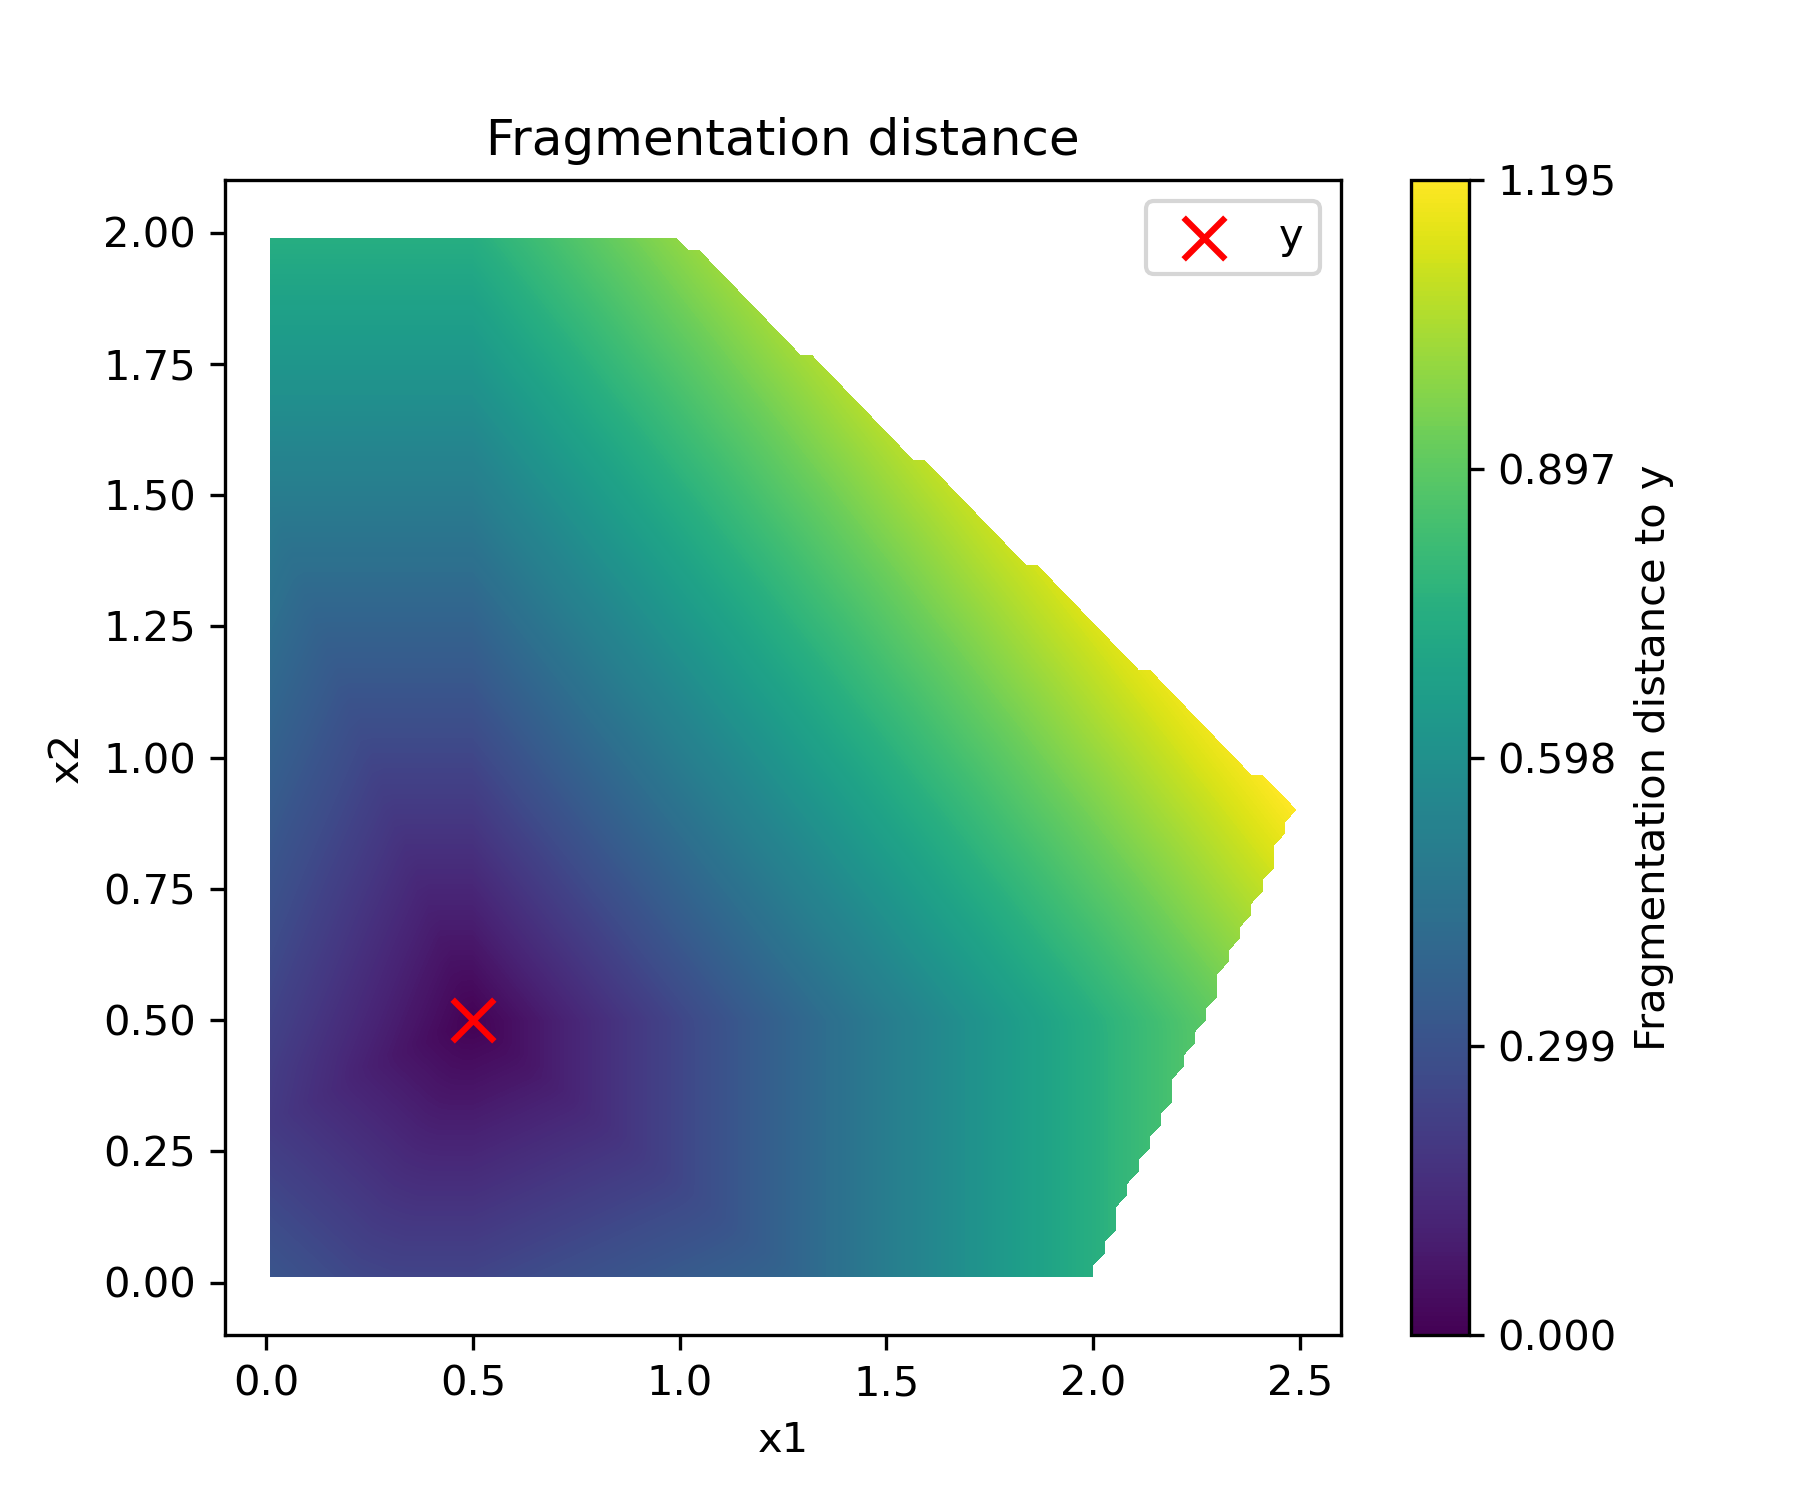
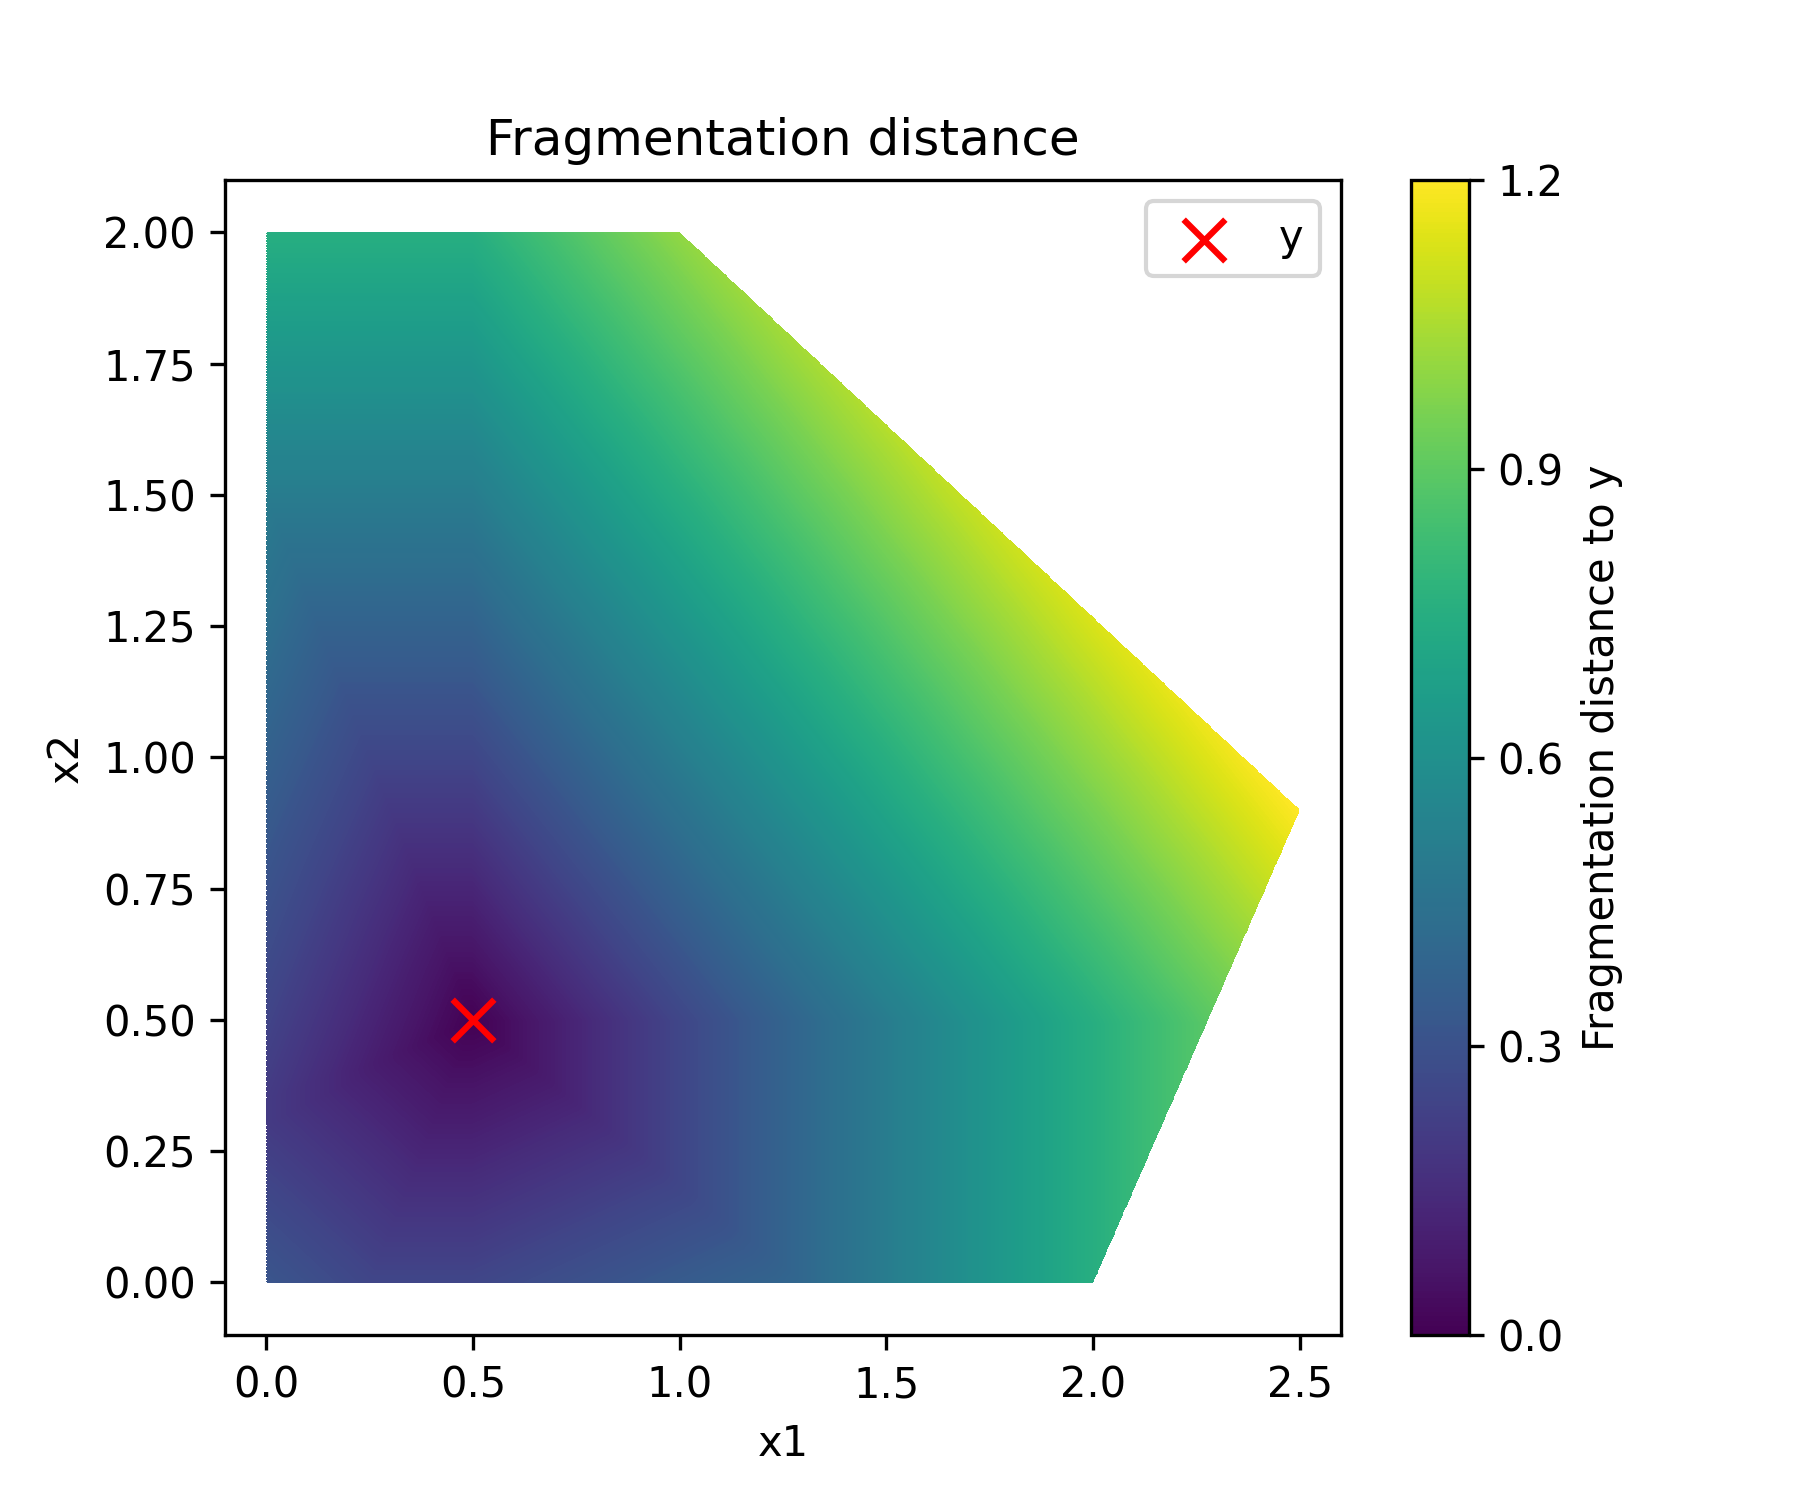
improved plot aesthetics

diff --git a/fragmentation_4_vertices_almost_triangle.py b/fragmentation_4_vertices_almost_triangle.py
@@ -1,0 +1,66 @@
+import numpy as np
+import sys
+from pathlib import Path
+sys.path.append((str(Path.cwd() / "src")))
+from polytope import Polytope
+from plotting_utils import save_plot_and_data_simple, plot_delaunay, plot_smooth
+
+# set up the polytope, columns are vertices
+vertices = np.array([[0, 1, 0.5, 0.75],
+                    [0, 0, 10, 5.5]])
+vertices = vertices.astype(np.float32)
+poly = Polytope(vertices)
+
+num_steps = 40
+num_steps_line = 75
+num_cores = 10
+epsilon = 1e-5
+tol = 1e-7
+
+
+y = np.array([0.0, 0.0], dtype=np.float32)
+grid, dists = poly.fragmentation_grid(y, num_steps=num_steps, num_steps_line=num_steps_line, epsilon=epsilon, tol=tol, parallel=True, num_cores=num_cores)
+fig = plot_smooth(grid, dists, y, title="Fragmentation distance", xlabel="x1", ylabel="x2")
+save_plot_and_data_simple(fig, vertices, y, name="fragmentation_4_vertices_almost_triangle_vertex_1")
+
+
+y = np.array([1.0, 0.0], dtype=np.float32)
+grid, dists = poly.fragmentation_grid(y, num_steps=num_steps, num_steps_line=num_steps_line, epsilon=epsilon, tol=tol, parallel=True, num_cores=num_cores)
+fig = plot_smooth(grid, dists, y, title="Fragmentation distance", xlabel="x1", ylabel="x2")
+save_plot_and_data_simple(fig, vertices, y, name="fragmentation_4_vertices_almost_triangle_vertex_2")
+
+y = np.array([0.25, 0.0], dtype=np.float32)
+grid, dists = poly.fragmentation_grid(y, num_steps=num_steps, num_steps_line=num_steps_line, epsilon=epsilon, tol=tol, parallel=True, num_cores=num_cores)
+fig = plot_smooth(grid, dists, y, title="Fragmentation distance", xlabel="x1", ylabel="x2")
+save_plot_and_data_simple(fig, vertices, y, name="fragmentation_4_vertices_almost_triangle_boundary_1")
+
+
+y = np.array([0.5, 0.0], dtype=np.float32)
+grid, dists = poly.fragmentation_grid(y, num_steps=num_steps, num_steps_line=num_steps_line, epsilon=epsilon, tol=tol, parallel=True, num_cores=num_cores)
+fig = plot_smooth(grid, dists, y, title="Fragmentation distance", xlabel="x1", ylabel="x2")
+save_plot_and_data_simple(fig, vertices, y, name="fragmentation_4_vertices_almost_triangle_boundary_2")
+
+y = np.array([0.75, 0.0], dtype=np.float32)
+grid, dists = poly.fragmentation_grid(y, num_steps=num_steps, num_steps_line=num_steps_line, epsilon=epsilon, tol=tol, parallel=True, num_cores=num_cores)
+fig = plot_smooth(grid, dists, y, title="Fragmentation distance", xlabel="x1", ylabel="x2")
+save_plot_and_data_simple(fig, vertices, y, name="fragmentation_4_vertices_almost_triangle_boundary_3")
+
+y = np.array([0.125, 2.5], dtype=np.float32)
+grid, dists = poly.fragmentation_grid(y, num_steps=num_steps, num_steps_line=num_steps_line, epsilon=epsilon, tol=tol, parallel=True, num_cores=num_cores)
+fig = plot_smooth(grid, dists, y, title="Fragmentation distance", xlabel="x1", ylabel="x2")
+save_plot_and_data_simple(fig, vertices, y, name="fragmentation_4_vertices_almost_triangle_boundary_4")
+
+y = np.array([0.25, 5.0], dtype=np.float32)
+grid, dists = poly.fragmentation_grid(y, num_steps=num_steps, num_steps_line=num_steps_line, epsilon=epsilon, tol=tol, parallel=True, num_cores=num_cores)
+fig = plot_smooth(grid, dists, y, title="Fragmentation distance", xlabel="x1", ylabel="x2")
+save_plot_and_data_simple(fig, vertices, y, name="fragmentation_4_vertices_almost_triangle_boundary_5")
+
+y = np.array([0.25, 3], dtype=np.float32)
+grid, dists = poly.fragmentation_grid(y, num_steps=num_steps, num_steps_line=num_steps_line, epsilon=epsilon, tol=tol, parallel=True, num_cores=num_cores)
+fig = plot_smooth(grid, dists, y, title="Fragmentation distance", xlabel="x1", ylabel="x2")
+save_plot_and_data_simple(fig, vertices, y, name="fragmentation_4_vertices_almost_triangle_relint_1")
+
+y = np.array([0.75, 8], dtype=np.float32)
+grid, dists = poly.fragmentation_grid(y, num_steps=num_steps, num_steps_line=num_steps_line, epsilon=epsilon, tol=tol, parallel=True, num_cores=num_cores)
+fig = plot_smooth(grid, dists, y, title="Fragmentation distance", xlabel="x1", ylabel="x2")
+save_plot_and_data_simple(fig, vertices, y, name="fragmentation_4_vertices_almost_triangle_relint_2")

diff --git a/fragmentation_parallelogram.py b/fragmentation_parallelogram.py
@@ -1,0 +1,66 @@
+import numpy as np
+import sys
+from pathlib import Path
+sys.path.append((str(Path.cwd() / "src")))
+from polytope import Polytope
+from plotting_utils import save_plot_and_data_simple, plot_delaunay, plot_smooth
+
+# set up the polytope, columns are vertices
+vertices = np.array([[0, 1, 0.5, 1.5],
+                    [0, 0, 10, 10]])
+vertices = vertices.astype(np.float32)
+poly = Polytope(vertices)
+
+num_steps = 40
+num_steps_line = 75
+num_cores = 10
+epsilon = 1e-5
+tol = 1e-7
+
+
+y = np.array([0.0, 0.0], dtype=np.float32)
+grid, dists = poly.fragmentation_grid(y, num_steps=num_steps, num_steps_line=num_steps_line, epsilon=epsilon, tol=tol, parallel=True, num_cores=num_cores)
+fig = plot_smooth(grid, dists, y, title="Fragmentation distance", xlabel="x1", ylabel="x2")
+save_plot_and_data_simple(fig, vertices, y, name="fragmentation_parallelogram_vertex_1")
+
+
+y = np.array([1.0, 0.0], dtype=np.float32)
+grid, dists = poly.fragmentation_grid(y, num_steps=num_steps, num_steps_line=num_steps_line, epsilon=epsilon, tol=tol, parallel=True, num_cores=num_cores)
+fig = plot_smooth(grid, dists, y, title="Fragmentation distance", xlabel="x1", ylabel="x2")
+save_plot_and_data_simple(fig, vertices, y, name="fragmentation_parallelogram_vertex_2")
+
+y = np.array([0.25, 0.0], dtype=np.float32)
+grid, dists = poly.fragmentation_grid(y, num_steps=num_steps, num_steps_line=num_steps_line, epsilon=epsilon, tol=tol, parallel=True, num_cores=num_cores)
+fig = plot_smooth(grid, dists, y, title="Fragmentation distance", xlabel="x1", ylabel="x2")
+save_plot_and_data_simple(fig, vertices, y, name="fragmentation_parallelogram_boundary_1")
+
+
+y = np.array([0.5, 0.0], dtype=np.float32)
+grid, dists = poly.fragmentation_grid(y, num_steps=num_steps, num_steps_line=num_steps_line, epsilon=epsilon, tol=tol, parallel=True, num_cores=num_cores)
+fig = plot_smooth(grid, dists, y, title="Fragmentation distance", xlabel="x1", ylabel="x2")
+save_plot_and_data_simple(fig, vertices, y, name="fragmentation_parallelogram_boundary_2")
+
+y = np.array([0.75, 0.0], dtype=np.float32)
+grid, dists = poly.fragmentation_grid(y, num_steps=num_steps, num_steps_line=num_steps_line, epsilon=epsilon, tol=tol, parallel=True, num_cores=num_cores)
+fig = plot_smooth(grid, dists, y, title="Fragmentation distance", xlabel="x1", ylabel="x2")
+save_plot_and_data_simple(fig, vertices, y, name="fragmentation_parallelogram_boundary_3")
+
+y = np.array([0.125, 2.5], dtype=np.float32)
+grid, dists = poly.fragmentation_grid(y, num_steps=num_steps, num_steps_line=num_steps_line, epsilon=epsilon, tol=tol, parallel=True, num_cores=num_cores)
+fig = plot_smooth(grid, dists, y, title="Fragmentation distance", xlabel="x1", ylabel="x2")
+save_plot_and_data_simple(fig, vertices, y, name="fragmentation_parallelogram_boundary_4")
+
+y = np.array([0.25, 5.0], dtype=np.float32)
+grid, dists = poly.fragmentation_grid(y, num_steps=num_steps, num_steps_line=num_steps_line, epsilon=epsilon, tol=tol, parallel=True, num_cores=num_cores)
+fig = plot_smooth(grid, dists, y, title="Fragmentation distance", xlabel="x1", ylabel="x2")
+save_plot_and_data_simple(fig, vertices, y, name="fragmentation_parallelogram_boundary_5")
+
+y = np.array([0.25, 3], dtype=np.float32)
+grid, dists = poly.fragmentation_grid(y, num_steps=num_steps, num_steps_line=num_steps_line, epsilon=epsilon, tol=tol, parallel=True, num_cores=num_cores)
+fig = plot_smooth(grid, dists, y, title="Fragmentation distance", xlabel="x1", ylabel="x2")
+save_plot_and_data_simple(fig, vertices, y, name="fragmentation_parallelogram_relint_1")
+
+y = np.array([0.75, 8], dtype=np.float32)
+grid, dists = poly.fragmentation_grid(y, num_steps=num_steps, num_steps_line=num_steps_line, epsilon=epsilon, tol=tol, parallel=True, num_cores=num_cores)
+fig = plot_smooth(grid, dists, y, title="Fragmentation distance", xlabel="x1", ylabel="x2")
+save_plot_and_data_simple(fig, vertices, y, name="fragmentation_parallelogram_relint_2")

diff --git a/fragmentation_5_vertices.py b/fragmentation_5_vertices.py
@@ -11,33 +11,36 @@ vertices = np.array([[0, 2, 1, 0, 2.5],
 vertices = vertices.astype(np.float32)
 poly = Polytope(vertices)
 
-num_steps = 20
-num_steps_line = 50
+num_steps = 40
+num_steps_line = 75
+num_cores = 10
+epsilon = 1e-5
+tol = 1e-7
 
 
 y = np.array([0.0, 0.0], dtype=np.float32)
-grid, dists = poly.fragmentation_grid(y, num_steps=num_steps, num_steps_line=num_steps_line, epsilon=1e-5, tol=1e-7, parallel=True, num_cores=10)
+grid, dists = poly.fragmentation_grid(y, num_steps=num_steps, num_steps_line=num_steps_line, epsilon=epsilon, tol=tol, parallel=True, num_cores=num_cores)
 fig = plot_smooth(grid, dists, y, title="Fragmentation distance", xlabel="x1", ylabel="x2")
-save_plot_and_data_simple(fig, vertices, y, name="fragmentation_5_vertices_vertex")
+save_plot_and_data_simple(fig, vertices, y, name="fragmentation_5_vertices_vertex_1")
 
 
 y = np.array([0.5, 0.5], dtype=np.float32)
-grid, dists = poly.fragmentation_grid(y, num_steps=num_steps, num_steps_line=num_steps_line, epsilon=1e-5, tol=1e-7, parallel=True, num_cores=10)
+grid, dists = poly.fragmentation_grid(y, num_steps=num_steps, num_steps_line=num_steps_line, epsilon=epsilon, tol=tol, parallel=True, num_cores=num_cores)
 fig = plot_smooth(grid, dists, y, title="Fragmentation distance", xlabel="x1", ylabel="x2")
 save_plot_and_data_simple(fig, vertices, y, name="fragmentation_5_vertices_relint_1")
 
 
 y = np.array([1.0, 1.5], dtype=np.float32)
-grid, dists = poly.fragmentation_grid(y, num_steps=num_steps, num_steps_line=num_steps_line, epsilon=1e-5, tol=1e-7, parallel=True, num_cores=10)
+grid, dists = poly.fragmentation_grid(y, num_steps=num_steps, num_steps_line=num_steps_line, epsilon=epsilon, tol=tol, parallel=True, num_cores=num_cores)
 fig = plot_smooth(grid, dists, y, title="Fragmentation distance", xlabel="x1", ylabel="x2")
 save_plot_and_data_simple(fig, vertices, y, name="fragmentation_5_vertices_relint_2")
 
 y = np.array([1.5, 1.25], dtype=np.float32)
-grid, dists = poly.fragmentation_grid(y, num_steps=num_steps, num_steps_line=num_steps_line, epsilon=1e-5, tol=1e-7, parallel=True, num_cores=10)
+grid, dists = poly.fragmentation_grid(y, num_steps=num_steps, num_steps_line=num_steps_line, epsilon=epsilon, tol=tol, parallel=True, num_cores=num_cores)
 fig = plot_smooth(grid, dists, y, title="Fragmentation distance", xlabel="x1", ylabel="x2")
 save_plot_and_data_simple(fig, vertices, y, name="fragmentation_5_vertices_relint_3")
 
 y = np.array([0.5, 0.0], dtype=np.float32)
-grid, dists = poly.fragmentation_grid(y, num_steps=num_steps, num_steps_line=num_steps_line, epsilon=1e-5, tol=1e-7, parallel=True, num_cores=10)
+grid, dists = poly.fragmentation_grid(y, num_steps=num_steps, num_steps_line=num_steps_line, epsilon=epsilon, tol=tol, parallel=True, num_cores=num_cores)
 fig = plot_smooth(grid, dists, y, title="Fragmentation distance", xlabel="x1", ylabel="x2")
-save_plot_and_data_simple(fig, vertices, y, name="fragmentation_5_vertices_boundary")
+save_plot_and_data_simple(fig, vertices, y, name="fragmentation_5_vertices_boundary_1")

diff --git a/fragmentation_boolean_hypercube.py b/fragmentation_boolean_hypercube.py
@@ -11,29 +11,32 @@ vertices = np.array([[0, 1, 1, 0],
 vertices = vertices.astype(np.float32)
 poly = Polytope(vertices)
 
-num_steps = 20
-num_steps_line = 50
+num_steps = 40
+num_steps_line = 75
+num_cores = 10
+epsilon = 1e-5
+tol = 1e-7
 
 
 y = np.array([0, 0], dtype=np.float32)
-grid, dists = poly.fragmentation_grid(y, num_steps=num_steps, num_steps_line=num_steps_line, epsilon=1e-5, tol=1e-7, parallel=True, num_cores=10)
+grid, dists = poly.fragmentation_grid(y, num_steps=num_steps, num_steps_line=num_steps_line, epsilon=epsilon, tol=tol, parallel=True, num_cores=num_cores)
 fig = plot_smooth(grid, dists, y, title="Fragmentation distance", xlabel="x1", ylabel="x2")
-save_plot_and_data_simple(fig, vertices, y, name="fragmentation_boolean_hypercube_vertex")
+save_plot_and_data_simple(fig, vertices, y, name="fragmentation_boolean_hypercube_vertex_1")
 
 
 y = np.array([0.2, 0.4], dtype=np.float32)
-grid, dists = poly.fragmentation_grid(y, num_steps=num_steps, num_steps_line=num_steps_line, epsilon=1e-5, tol=1e-7, parallel=True, num_cores=10)
+grid, dists = poly.fragmentation_grid(y, num_steps=num_steps, num_steps_line=num_steps_line, epsilon=epsilon, tol=tol, parallel=True, num_cores=num_cores)
 fig = plot_smooth(grid, dists, y, title="Fragmentation distance", xlabel="x1", ylabel="x2")
 save_plot_and_data_simple(fig, vertices, y, name="fragmentation_boolean_hypercube_relint_1")
 
 
 y = np.array([0.5, 0.5], dtype=np.float32)
-grid, dists = poly.fragmentation_grid(y, num_steps=num_steps, num_steps_line=num_steps_line, epsilon=1e-5, tol=1e-7, parallel=True, num_cores=10)
+grid, dists = poly.fragmentation_grid(y, num_steps=num_steps, num_steps_line=num_steps_line, epsilon=epsilon, tol=tol, parallel=True, num_cores=num_cores)
 fig = plot_smooth(grid, dists, y, title="Fragmentation distance", xlabel="x1", ylabel="x2")
 save_plot_and_data_simple(fig, vertices, y, name="fragmentation_boolean_hypercube_relint_2")
 
 
 y = np.array([0.2, 0.0], dtype=np.float32)
-grid, dists = poly.fragmentation_grid(y, num_steps=num_steps, num_steps_line=num_steps_line, epsilon=1e-5, tol=1e-7, parallel=True, num_cores=10)
+grid, dists = poly.fragmentation_grid(y, num_steps=num_steps, num_steps_line=num_steps_line, epsilon=epsilon, tol=tol, parallel=True, num_cores=num_cores)
 fig = plot_smooth(grid, dists, y, title="Fragmentation distance", xlabel="x1", ylabel="x2")
-save_plot_and_data_simple(fig, vertices, y, name="fragmentation_boolean_hypercube_boundary")
+save_plot_and_data_simple(fig, vertices, y, name="fragmentation_boolean_hypercube_boundary_1")

diff --git a/src/plotting_utils.py b/src/plotting_utils.py
@@ -2,12 +2,11 @@
 import matplotlib.pyplot as plt
 import matplotlib.tri as mtri
 import numpy as np
-from itertools import product
 from scipy.interpolate import griddata
 import os
 
 
-def plot_smooth(grid_points: np.ndarray, distances: np.ndarray, y: np.ndarray, resolution=100, offset: float = 0.1,
+def plot_smooth(grid_points: np.ndarray, distances: np.ndarray, y: np.ndarray, resolution=1250, offset: float = 0.1,
                 title: str | None = None, xlabel: str | None = None, ylabel: str | None = None) -> plt.Figure:
     if grid_points.shape[0] != 2:
         raise ValueError("Plotting only supported for 2D polytopes.")
@@ -17,14 +16,13 @@ def plot_smooth(grid_points: np.ndarray, distances: np.ndarray, y: np.ndarray, r
     XI, YI = np.meshgrid(xi, yi)
     
     ZI = griddata(grid_points.T, distances, (XI, YI), method='linear')
-    
     fig, ax = plt.subplots(figsize=(6, 5))
     
     finite_vals = ZI[np.isfinite(ZI)]
     min_val = finite_vals.min()
     max_val = finite_vals.max()
     
-    cf = ax.contourf(XI, YI, ZI, levels=np.linspace(min_val, max_val, 250), cmap='viridis')
+    cf = ax.contourf(XI, YI, ZI, levels=np.linspace(min_val, max_val, 500), cmap='viridis')
     
     legend_title = f"{title} to y" if title else "Vertex distance to y"
     cbar = plt.colorbar(cf, ax=ax, label=legend_title, ticks=np.linspace(min_val, max_val, 5))
@@ -51,7 +49,7 @@ def plot_delaunay(grid_points: np.ndarray, distances: np.ndarray, y: np.ndarray,
     min_val = finite_vals.min()
     max_val = finite_vals.max()
     
-    cf = ax.tricontourf(triang, distances, levels=np.linspace(min_val, max_val, 250), cmap='viridis')
+    cf = ax.tricontourf(triang, distances, levels=np.linspace(min_val, max_val, 500), cmap='viridis')
     
     legend_title = f"{title} to y" if title else "Vertex distance to y"
     cbar = plt.colorbar(cf, ax=ax, label=legend_title, ticks=np.linspace(min_val, max_val, 5))
@@ -86,9 +84,8 @@ def save_plot_and_data_simple(fig: plt.Figure, vertices: np.ndarray, y: np.ndarr
     name : str
         Base name for saving files.
     """
-
+    print(f"Plotting {name}.")
     os.makedirs("results", exist_ok=True)
-    
     # Save figure
     fig_path = os.path.join("results", f"{name}.png")
     fig.savefig(fig_path, dpi=300)

diff --git a/fragmentation_complicated.py b/fragmentation_complicated.py
@@ -1,0 +1,25 @@
+import numpy as np
+import sys
+from pathlib import Path
+sys.path.append((str(Path.cwd() / "src")))
+from polytope import Polytope
+from plotting_utils import save_plot_and_data_simple, plot_delaunay, plot_smooth
+
+# set up the polytope, columns are vertices
+vertices = np.array([[0, 0, 2, 1, 2, 3],
+                    [0, 1, 0, 3, 2, 1]])
+vertices = vertices.astype(np.float32)
+poly = Polytope(vertices)
+
+num_steps = 40
+num_steps_line = 75
+num_cores = 10
+epsilon = 1e-5
+tol = 1e-7
+
+
+y = np.array([0.0, 0.0], dtype=np.float32)
+grid, dists = poly.fragmentation_grid(y, num_steps=num_steps, num_steps_line=num_steps_line, epsilon=epsilon, tol=tol, parallel=True, num_cores=num_cores)
+fig = plot_smooth(grid, dists, y, title="Fragmentation distance", xlabel="x1", ylabel="x2")
+save_plot_and_data_simple(fig, vertices, y, name="fragmentation_complicated_vertex_1")
+
